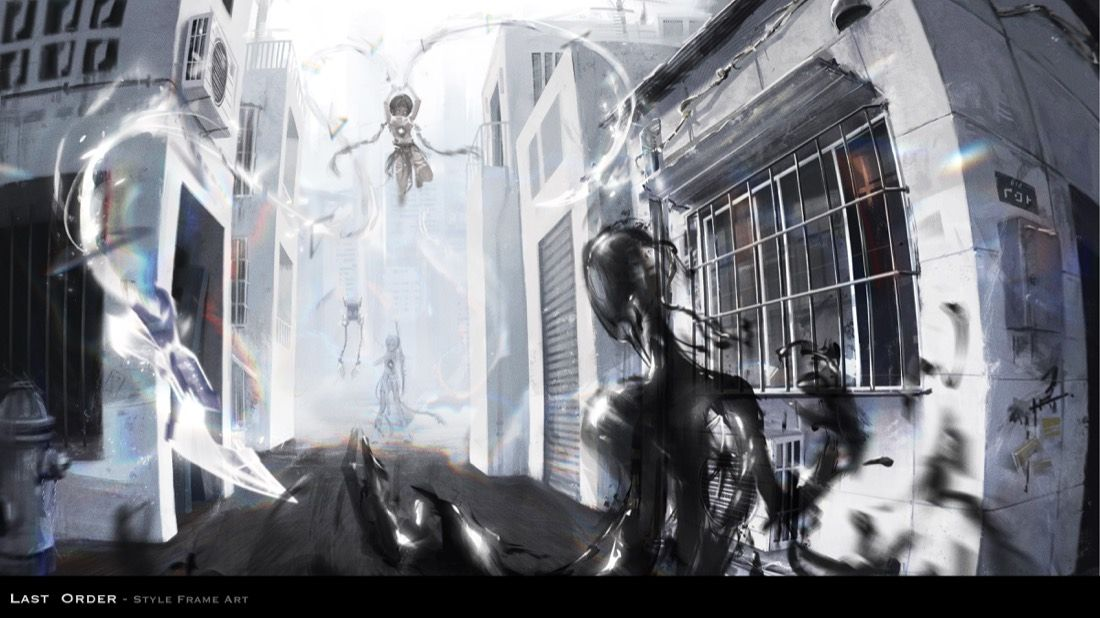
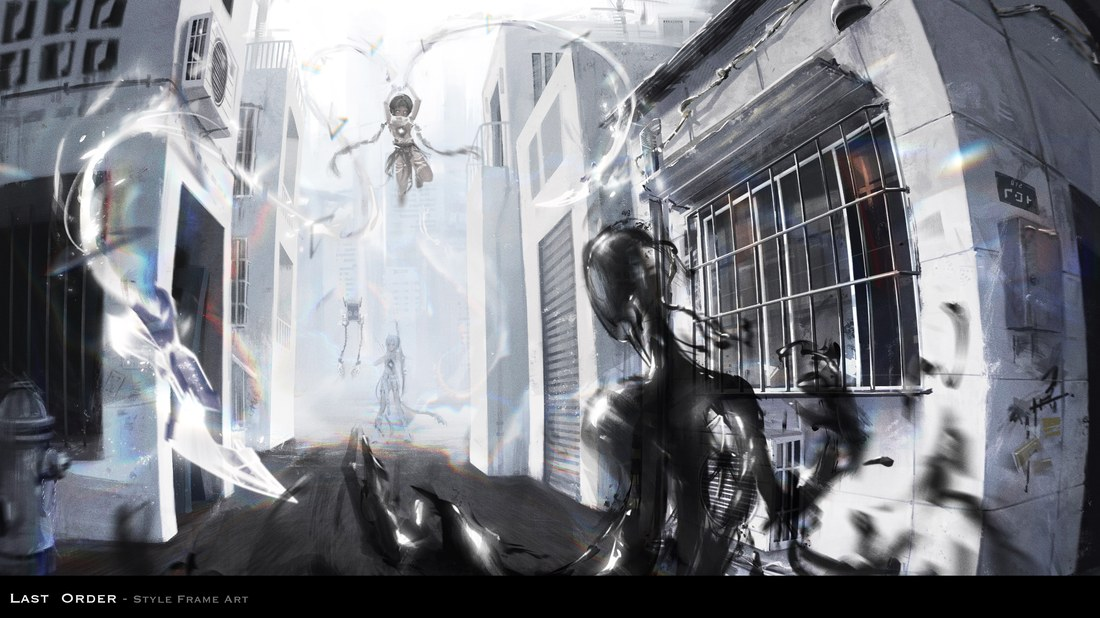
Mobile fixes: strip drag no longer fights auto-scroll; lightbox swipe/inspect reliability; remove edge artifact from STYLE FRAME
- 作品条触屏拖动：暂停判定改用 touch 事件 + 滚动静止检测。原先用
  pointer 事件，浏览器接管滚动后只派发 pointercancel，1.5s 定时器会在
  手指还按着/惯性滚动中恢复自动滚动并写 scrollLeft —— iOS 上这会直接
  杀掉进行中的手势，表现为拖不动、时不时卡住。现在手势期间绝不写入。
- 灯箱 .lb-stage touch-action: pan-y → none：斜向滑动不再被浏览器抢走
  （之前 pointercancel 会吃掉翻页，按住检视也会被打断）。
- 灯箱翻页去掉 ~370ms 过渡锁（快速连滑每一下都响应），改用渲染序号 +
  可取消的换图定时器防乱序；关闭时一并作废未落地的换图。
- 按住检视松手不再误翻页（pointerup 冒泡顺序问题，lbZoomOn 延迟复位）；
  检视取景框改用实际倍率 mz 计算。
- 13-style-frame.jpg：裁掉右缘 1px 近白导出瑕疵列（缩放重采样会在旁边
  产生暗色振铃列 = 卡片上的"黑色竖线"），重生成缩略图，w 4800→4799。

diff --git a/js/main.js b/js/main.js
@@ -444,7 +444,8 @@
     document.body.style.overflow = "hidden";
     $(".lb-close", lb).focus();
   }
-  let lbTransitioning = false;
+  let lbSwapT = 0;       // 未完成的换图定时器：新一次翻页/关闭时取消
+  let lbRenderSeq = 0;   // 渲染序号：只有最新一次换图允许落地
   let lbFullToken = 0;
   let lbObjURL = null;     // 当前原图的 blob URL，切图/关闭时释放
   let lbLoadTimer = 0;
@@ -508,29 +509,31 @@
     const pf = $("#lbProgressFill");
     if (pf) pf.style.width = `${((lbState.index + 1) / items.length) * 100}%`;
     lbFullToken++;                               // 让上一张未完成的升级作废
+    const seq = ++lbRenderSeq;
+    clearTimeout(lbSwapT);                       // 上一次换图还没落地就作废
     if (instant) {
       lbImg.src = it.src;
       lbImg.alt = it.cap;
       lbImg.style.opacity = "1";
       lbImg.style.transform = "";
-      lbTransitioning = false;
       upgradeToFull(it);
       return;
     }
-    // 正常加载过渡：淡出 → 换图 → 淡入
-    lbTransitioning = true;
+    // 正常加载过渡：淡出 → 换图 → 淡入。
+    // 不再用"过渡中丢弃翻页"的锁 —— 连续快速滑动每一下都响应，
+    // seq 保证乱序的 load 回调不会把旧图/旧透明度写回来。
     lbImg.style.transition = "opacity 0.18s ease";
     lbImg.style.transform = "";
     lbImg.style.opacity = "0";
     const swap = () => {
+      if (seq !== lbRenderSeq) return;
       lbImg.src = it.src;
       lbImg.alt = it.cap;
       let entered = false;
       const enter = () => {
-        if (entered) return;
+        if (entered || seq !== lbRenderSeq) return;
         entered = true;
         lbImg.style.opacity = "1";
-        setTimeout(() => { lbTransitioning = false; }, 200);
         upgradeToFull(it);                       // 缩略图淡入后再升级高清
       };
       if (lbImg.complete) enter();
@@ -539,10 +542,9 @@
         lbImg.addEventListener("error", enter, { once: true });
       }
     };
-    setTimeout(swap, 170);
+    lbSwapT = setTimeout(swap, 170);
   }
   function lbNav(dir) {
-    if (lbTransitioning) return;
     const items = galleries[lbState.group];
     if (!items) return;
     let i = lbState.index;
@@ -564,6 +566,8 @@
     if (f && f.isConnected && f.offsetParent !== null) f.focus({ preventScroll: true });
     else { const t = $(".tab.is-active"); if (t) t.focus({ preventScroll: true }); }
     lbFullToken++;            // 中止进行中的原图下载
+    lbRenderSeq++;            // 作废未落地的换图，防止关闭后旧 swap 再写 src
+    clearTimeout(lbSwapT);
     hideLoadingBar();
     clearTimeout(lbHideT);
     lbHideT = setTimeout(() => {
@@ -833,7 +837,11 @@
 
   /* ---------- 触屏自动滚动 ----------
      桌面用 CSS transform marquee；触屏改成原生 overflow-x 滑动 + 这里的慢速
-     scrollLeft 自增，保留手动滑动的同时也会自己走。手指一碰即停，松手 1.5s 后续。
+     scrollLeft 自增，保留手动滑动的同时也会自己走。
+     暂停判定用 touch 事件而不是 pointer 事件：浏览器接管滚动手势后
+     pointerup 不会再来（只有 pointercancel），touchend 却始终会派发。
+     手指还按着 / 滚动未静止（含惯性）期间绝不写 scrollLeft ——
+     iOS 上手势进行中写 scrollLeft 会直接杀掉当前手势，表现为拖不动、卡住。
      复制一份内容做无缝循环；离屏 / 不在作品页时不滚，省电。 */
   function setupTouchAutoScroll() {
     $$("#projects .strip").forEach((strip) => {
@@ -849,13 +857,20 @@
         observeLazy(track);   // 克隆图懒加载
       }
 
-      let down = false, paused = false, idleT = 0, onView = true;
-      const arm = () => { clearTimeout(idleT); idleT = setTimeout(() => { paused = false; }, 1500); };
-      strip.addEventListener("pointerdown", () => { down = true; paused = true; clearTimeout(idleT); }, { passive: true });
-      const release = () => { down = false; arm(); };
-      strip.addEventListener("pointerup", release, { passive: true });
-      strip.addEventListener("pointercancel", release, { passive: true });
-      strip.addEventListener("scroll", () => { if (!down) arm(); }, { passive: true });
+      let touches = 0, lastInput = 0, progUntil = 0, onView = true;
+      strip.addEventListener("touchstart", (e) => {
+        touches = e.touches.length; lastInput = performance.now();
+      }, { passive: true });
+      const endTouch = (e) => {
+        touches = e.touches.length; lastInput = performance.now();
+      };
+      strip.addEventListener("touchend", endTouch, { passive: true });
+      strip.addEventListener("touchcancel", endTouch, { passive: true });
+      // 用户滚动（手指拖 / 惯性）都会进这里；自动滚动自己触发的 scroll
+      // 靠 progUntil 时间窗排除，否则会把自己当成用户输入而自杀
+      strip.addEventListener("scroll", () => {
+        if (performance.now() > progUntil) lastInput = performance.now();
+      }, { passive: true });
 
       if ("IntersectionObserver" in window) {
         new IntersectionObserver(
@@ -867,7 +882,9 @@
       let last = 0;
       const tick = (t) => {
         const dt = last ? t - last : 0; last = t;
-        if (!paused && onView && dt < 100 && portfolioVisible()) {
+        const idle = touches === 0 && t - lastInput > 1500;
+        if (idle && onView && dt < 100 && portfolioVisible()) {
+          progUntil = t + 80;
           strip.scrollLeft += dt * 0.03;            // ~30px/s，与桌面一致
           const wrap = half.offsetWidth;
           if (wrap > 0 && strip.scrollLeft >= wrap) strip.scrollLeft -= wrap;
@@ -1333,8 +1350,8 @@
       view.style.backgroundPosition = `${px}px ${py}px`;
       view.classList.add("live");
       if (zrect) {
-        // 取景框：上方方块对应的图上区域
-        const rw = vw / MZ, rh = vh / MZ;
+        // 取景框：上方方块对应的图上区域（用实际倍率 mz，MZ 只是下限）
+        const rw = vw / mz, rh = vh / mz;
         const rx = Math.min(rect.width - rw, Math.max(0, fx * rect.width - rw / 2));
         const ry = Math.min(rect.height - rh, Math.max(0, fy * rect.height - rh / 2));
         zrect.style.width = `${rw}px`;
@@ -1347,7 +1364,10 @@
       clearTimeout(holdT);
       if (tracking) {
         tracking = false;
-        lbZoomOn = false; // 恢复滑动翻页
+        // pointerup 从 frame 冒泡到 stage，翻页判定在 stage 上：
+        // 这里同步复位的话，检视时的横向移动会被当成 swipe 翻页。
+        // 延迟到下一拍，让同一事件里 stage 先看到 zoom-on 再复位。
+        setTimeout(() => { lbZoomOn = false; }, 0);
         view.classList.remove("live"); // 检视是全屏覆盖：松手立即收起
         if (zrect) zrect.classList.remove("live");
       }

diff --git a/js/data.js b/js/data.js
@@ -43,7 +43,7 @@ const PROJECTS = [
       { title: "ENVIRONMENT — CONCEPT ART",    src: "assets/works/p01/thumb/10-env-concept.jpg",   full: "assets/works/p01/10-env-concept.jpg",   w: 4800, h: 2700 },
       { title: "ENVIRONMENT — CONCEPT ART 2",  src: "assets/works/p01/thumb/11-env-concept-2.jpg", full: "assets/works/p01/11-env-concept-2.jpg", w: 4400, h: 2800 },
       { title: "ENVIRONMENT — DESIGN",         src: "assets/works/p01/thumb/12-env-design.jpg",    full: "assets/works/p01/12-env-design.jpg",    w: 4800, h: 2700 },
-      { title: "STYLE FRAME",                  src: "assets/works/p01/thumb/13-style-frame.jpg",   full: "assets/works/p01/13-style-frame.jpg",   w: 4800, h: 2700 },
+      { title: "STYLE FRAME",                  src: "assets/works/p01/thumb/13-style-frame.jpg",   full: "assets/works/p01/13-style-frame.jpg",   w: 4799, h: 2700 },
     ],
   },
   {

diff --git a/css/style.css b/css/style.css
@@ -1136,7 +1136,10 @@ footer .ast { color: var(--ink-dim); }
 #lightbox.is-open { opacity: 1; }
 #lightbox[hidden] { display: none; }
 
-.lb-stage { touch-action: pan-y; }
+/* 手势全由 JS 接管（swipe 翻页 / 按住检视）。pan-y 会让浏览器把
+   带竖向分量的手势抢走并 pointercancel —— 斜着滑就翻不了页、
+   检视中手指一漂就被打断。灯箱内也没有可竖向滚动的东西。 */
+.lb-stage { touch-action: none; }
 .lb-frame {
   position: relative; display: inline-block;
   border-radius: var(--radius);
